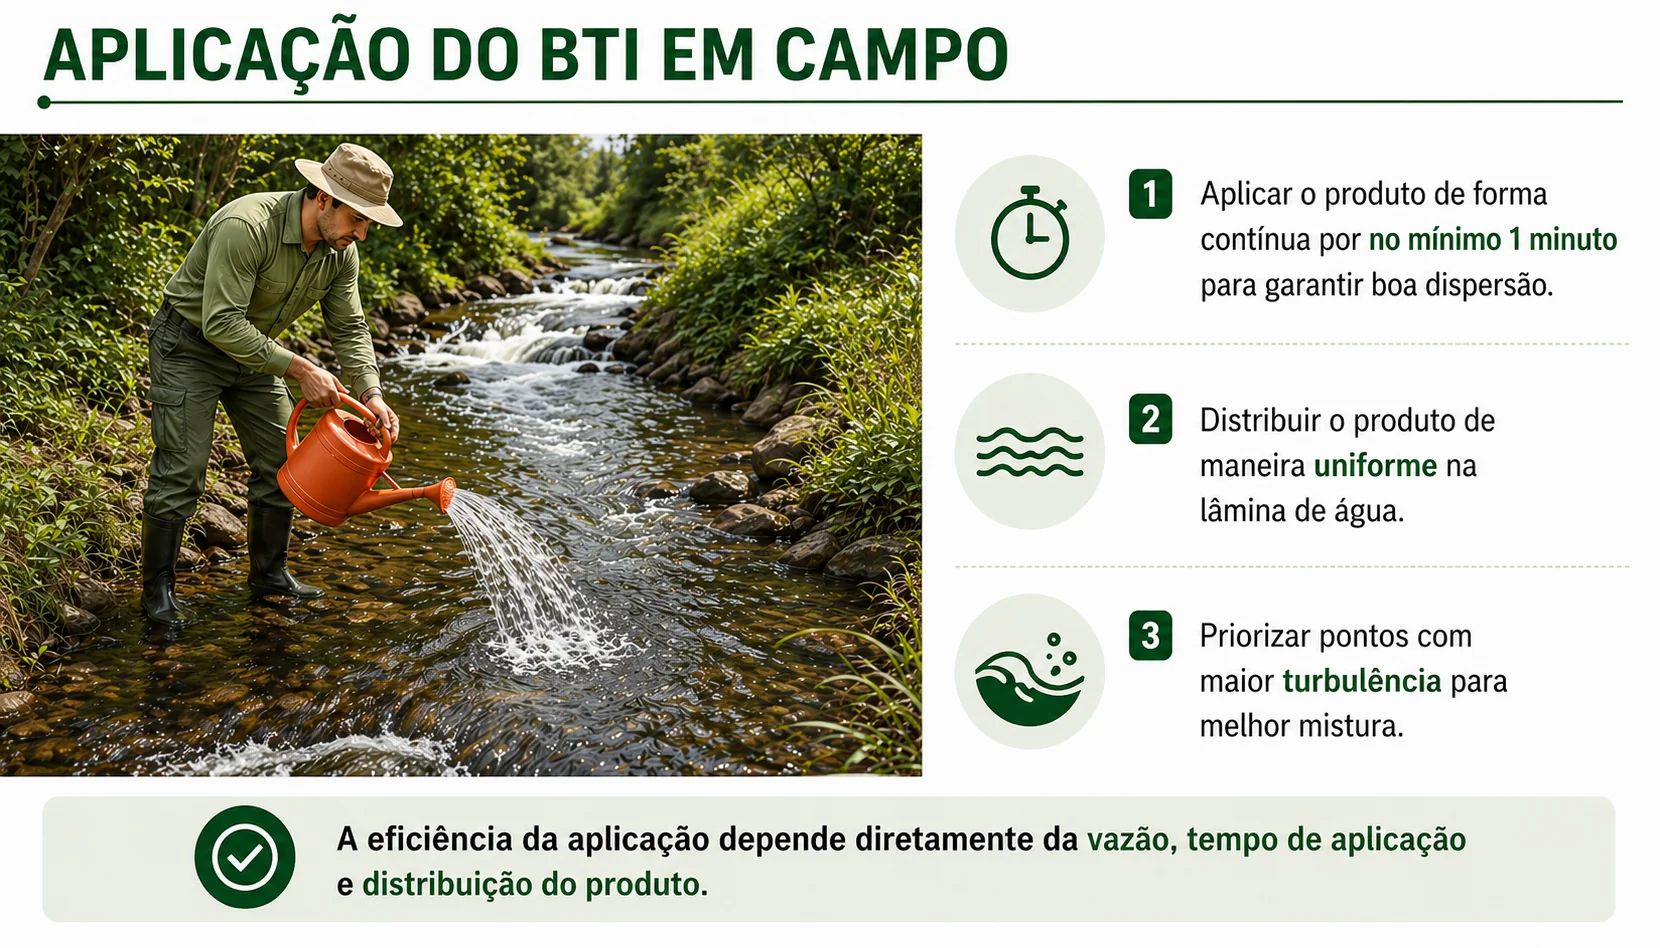
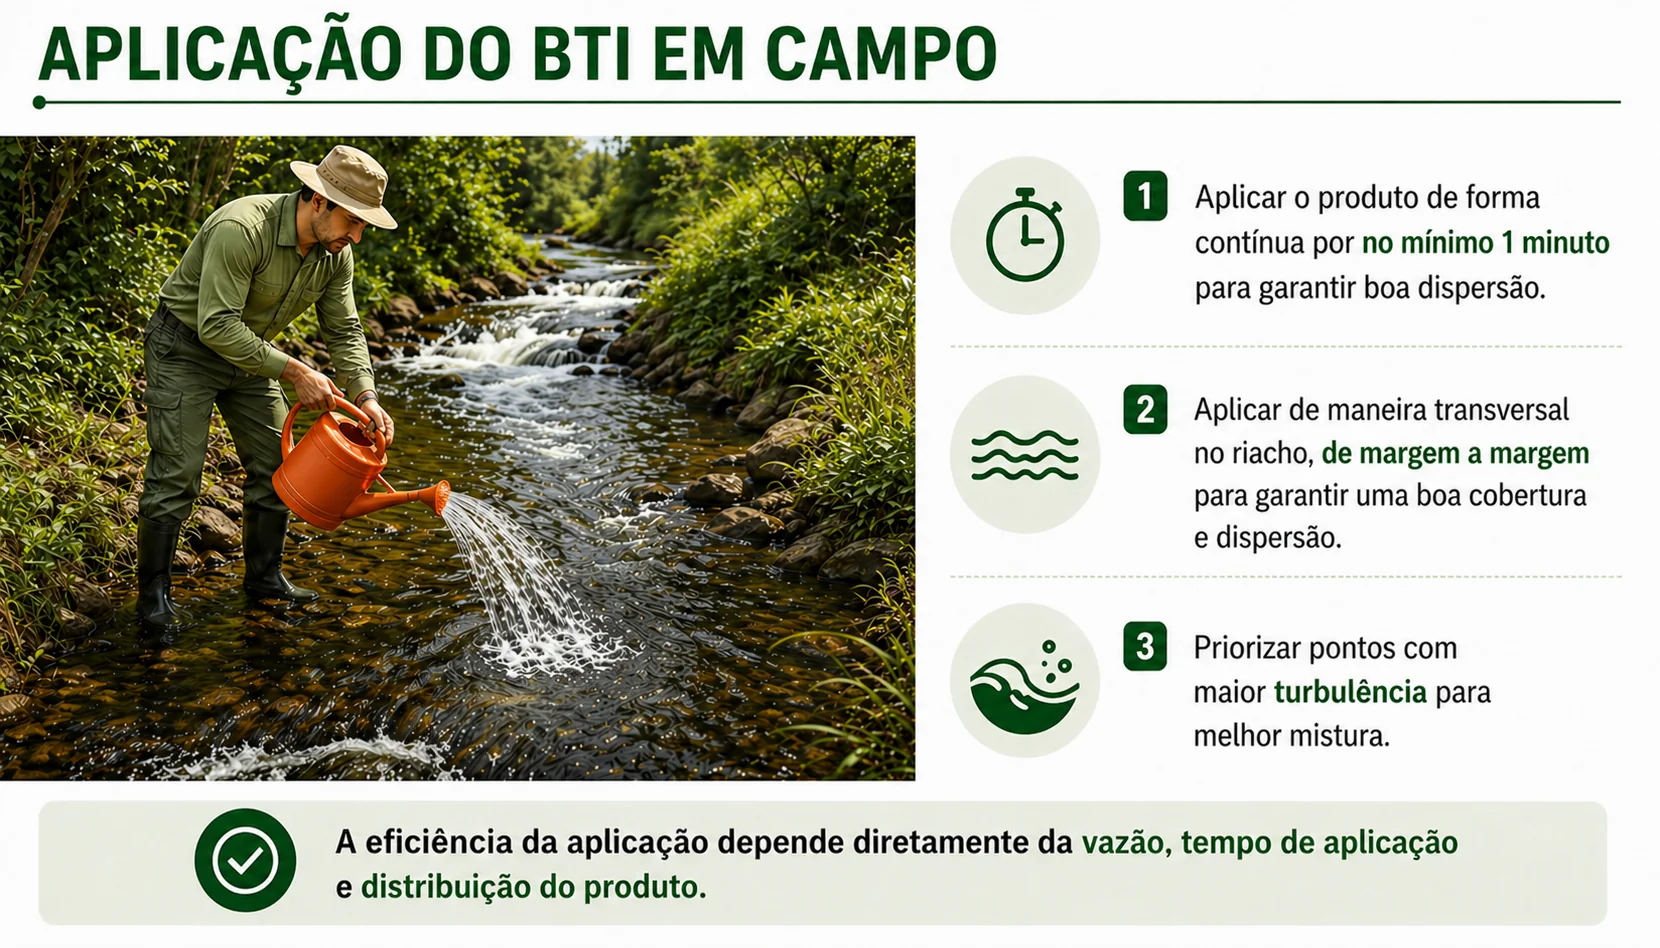
Ajuste de imagem e de mensagem de rotacao

diff --git a/styles.css b/styles.css
@@ -528,26 +528,42 @@ table {
   color: #a5d4b6;
 }
 
-/* === ROTATE PROMPT === */
-.rotate-prompt {
+/* === ROTATE HINT (banner) === */
+.rotate-hint {
   display: none;
   position: fixed;
-  inset: 0;
-  z-index: 200;
-  background: #0a0a0a;
-  flex-direction: column;
-  align-items: center;
-  justify-content: center;
-  text-align: center;
-  padding: 40px 28px;
+  top: calc(16px + env(safe-area-inset-top));
+  left: 50%;
+  transform: translateX(-50%) translateY(-12px);
+  z-index: 50;
+  background: rgba(20, 54, 38, 0.92);
+  backdrop-filter: blur(14px);
+  -webkit-backdrop-filter: blur(14px);
   color: #fff;
+  padding: 10px 14px 10px 16px;
+  border-radius: 99px;
+  border: 1px solid rgba(74, 222, 128, 0.3);
+  align-items: center;
+  gap: 10px;
+  font-size: 12px;
+  font-weight: 500;
+  line-height: 1.3;
+  max-width: calc(100% - 32px);
+  box-shadow: 0 12px 32px rgba(0, 0, 0, 0.4);
+  opacity: 0;
+  transition: opacity 0.4s ease, transform 0.4s ease;
 }
 
-.rotate-icon {
-  width: 72px;
-  height: 72px;
+.rotate-hint.show {
+  opacity: 1;
+  transform: translateX(-50%) translateY(0);
+}
+
+.rotate-hint-icon {
+  width: 18px;
+  height: 18px;
+  flex-shrink: 0;
   color: #4ade80;
-  margin-bottom: 28px;
   animation: rotate-anim 2.4s ease-in-out infinite;
   transform-origin: center;
 }
@@ -558,18 +574,30 @@ table {
   90%, 100% { transform: rotate(0deg); }
 }
 
-.rotate-title {
-  font-size: 22px;
-  font-weight: 800;
-  letter-spacing: -0.01em;
-  margin-bottom: 14px;
+.rotate-hint-text {
+  white-space: nowrap;
+  overflow: hidden;
+  text-overflow: ellipsis;
 }
 
-.rotate-text {
-  font-size: 14px;
-  line-height: 1.6;
-  color: rgba(255, 255, 255, 0.7);
-  max-width: 320px;
+.rotate-hint-close {
+  width: 22px;
+  height: 22px;
+  border-radius: 50%;
+  background: rgba(255, 255, 255, 0.12);
+  color: #fff;
+  font-size: 16px;
+  font-weight: 300;
+  line-height: 1;
+  display: flex;
+  align-items: center;
+  justify-content: center;
+  flex-shrink: 0;
+  transition: background 0.2s ease;
+}
+
+.rotate-hint-close:hover {
+  background: rgba(255, 255, 255, 0.22);
 }
 
 /* === RESPONSIVE === */
@@ -591,10 +619,7 @@ table {
 }
 
 @media (max-width: 900px) and (orientation: portrait) {
-  .rotate-prompt {
+  .rotate-hint {
     display: flex;
-  }
-  .presentation {
-    display: none;
   }
 }

diff --git a/script.js b/script.js
@@ -462,6 +462,40 @@
   modalClose.addEventListener('click', closeModal);
   modalBackdrop.addEventListener('click', closeModal);
 
+  /* ============ ROTATE HINT ============ */
+  const rotateHint = document.getElementById('rotateHint');
+  const rotateHintClose = document.getElementById('rotateHintClose');
+  const HINT_KEY = 'rotateHintDismissed';
+
+  function maybeShowRotateHint() {
+    if (!rotateHint) return;
+    if (sessionStorage.getItem(HINT_KEY) === '1') return;
+
+    const isPortraitMobile =
+      window.matchMedia('(max-width: 900px) and (orientation: portrait)').matches;
+
+    if (isPortraitMobile) {
+      requestAnimationFrame(() => rotateHint.classList.add('show'));
+      // Auto-dismiss after 6s
+      setTimeout(dismissRotateHint, 6000);
+    } else {
+      rotateHint.classList.remove('show');
+    }
+  }
+
+  function dismissRotateHint() {
+    if (!rotateHint) return;
+    rotateHint.classList.remove('show');
+    sessionStorage.setItem(HINT_KEY, '1');
+  }
+
+  if (rotateHintClose) rotateHintClose.addEventListener('click', dismissRotateHint);
+  window.addEventListener('orientationchange', () =>
+    setTimeout(maybeShowRotateHint, 200)
+  );
+  window.addEventListener('resize', maybeShowRotateHint);
+
   /* ============ INIT ============ */
   update();
+  maybeShowRotateHint();
 })();

diff --git a/index.html b/index.html
@@ -222,13 +222,13 @@
 
   </div>
 
-  <div class="rotate-prompt" aria-hidden="true">
-    <svg class="rotate-icon" viewBox="0 0 24 24" fill="none" stroke="currentColor" stroke-width="1.8" stroke-linecap="round" stroke-linejoin="round" aria-hidden="true">
+  <div class="rotate-hint" id="rotateHint" aria-hidden="true">
+    <svg class="rotate-hint-icon" viewBox="0 0 24 24" fill="none" stroke="currentColor" stroke-width="1.8" stroke-linecap="round" stroke-linejoin="round" aria-hidden="true">
       <rect x="5" y="2" width="14" height="20" rx="2" ry="2"/>
       <line x1="12" y1="18" x2="12.01" y2="18"/>
     </svg>
-    <h2 class="rotate-title">Gire seu dispositivo</h2>
-    <p class="rotate-text">A apresentação foi feita para o modo paisagem.<br>Vire o celular na horizontal para a melhor experiência.</p>
+    <span class="rotate-hint-text">Para a melhor experiência, gire o celular na horizontal</span>
+    <button class="rotate-hint-close" id="rotateHintClose" aria-label="Fechar">×</button>
   </div>
 
   <div class="modal" id="modal" aria-hidden="true">
